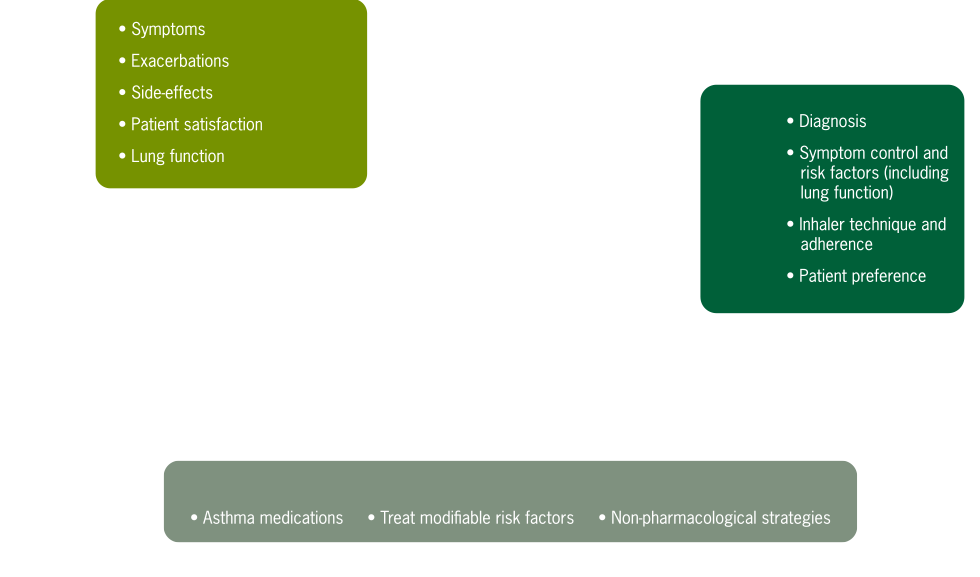
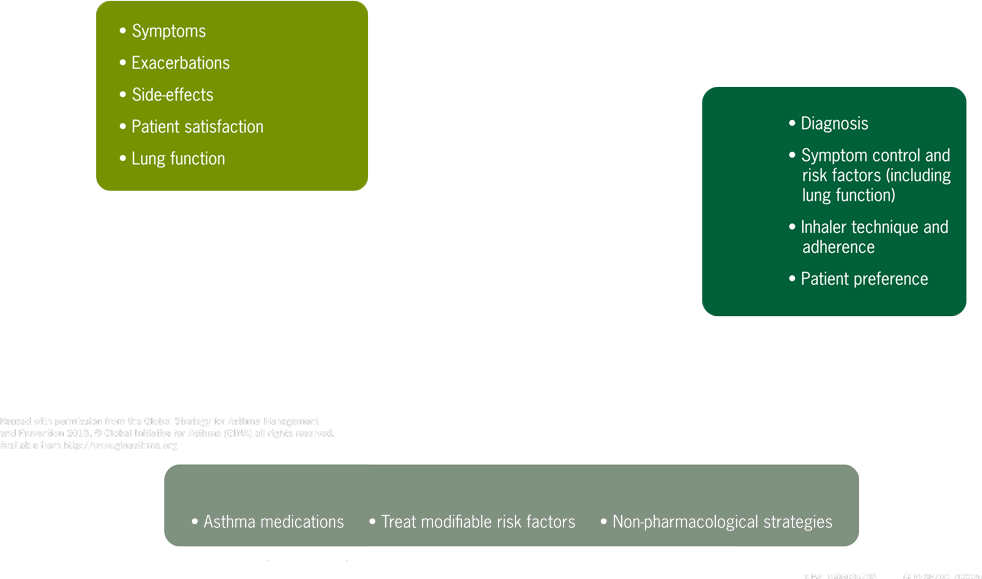
working version from home

diff --git a/app/styles/_myVars.scss b/app/styles/_myVars.scss
@@ -16,7 +16,7 @@ $slides: (
     ("slide11", $backgroundGreenLight, 871px,572px, 130px 192px), 
     ("slide12", $backgroundGreenMedium, 870px,497px, 130px 265px),
     ("slide13", $backgroundGreenDark, 945px,576px, 52px 185px),
-    ("slide14", $backgroundGreenDark, 980px,557px, 15px 185px),
+    ("slide14", $backgroundGreenDark, 982px,579px, 15px 185px),
     ("slide141", $backgroundGreenDark, 944px,747px, 50px 14px),
     ("slide142", $backgroundGreenDark, 977px,747px, 50px 14px),
     ("slide15", $backgroundGrey, 943px,576px, 53px 186px),

diff --git a/app/styles/_myExtends.scss b/app/styles/_myExtends.scss
@@ -31,9 +31,9 @@
   width: 152px;
   height: 152px;
   position: absolute;
-  left :845px;
+  left: 845px;
   top: 20px;
   // transform: rotate(360deg);
   // transition: 1s all;
-  @include translate3d(0,0,0);
+  // @include translate3d(0,0,1px);
 }
